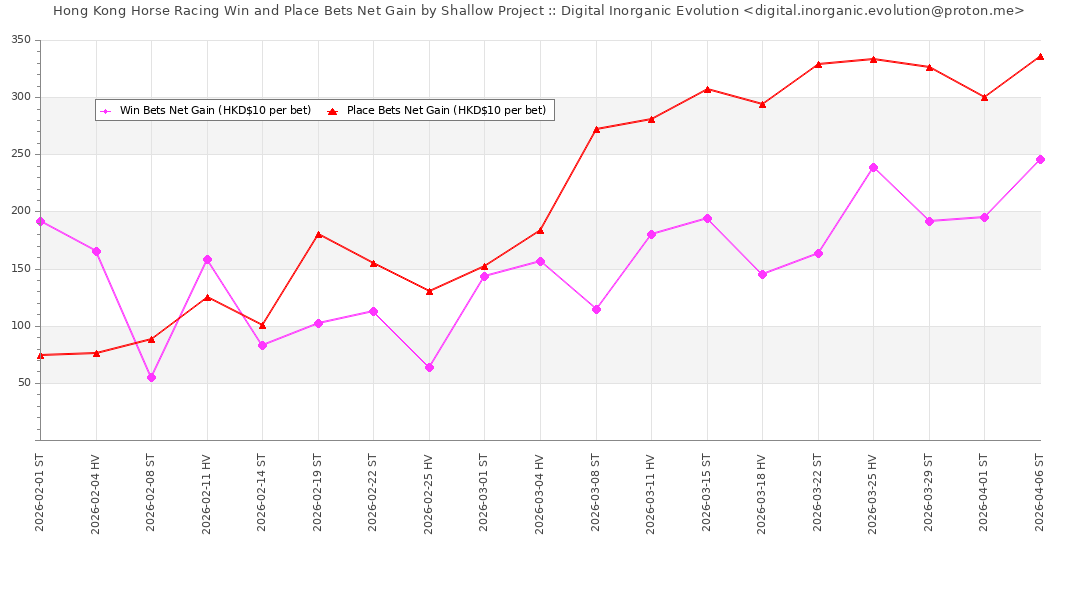
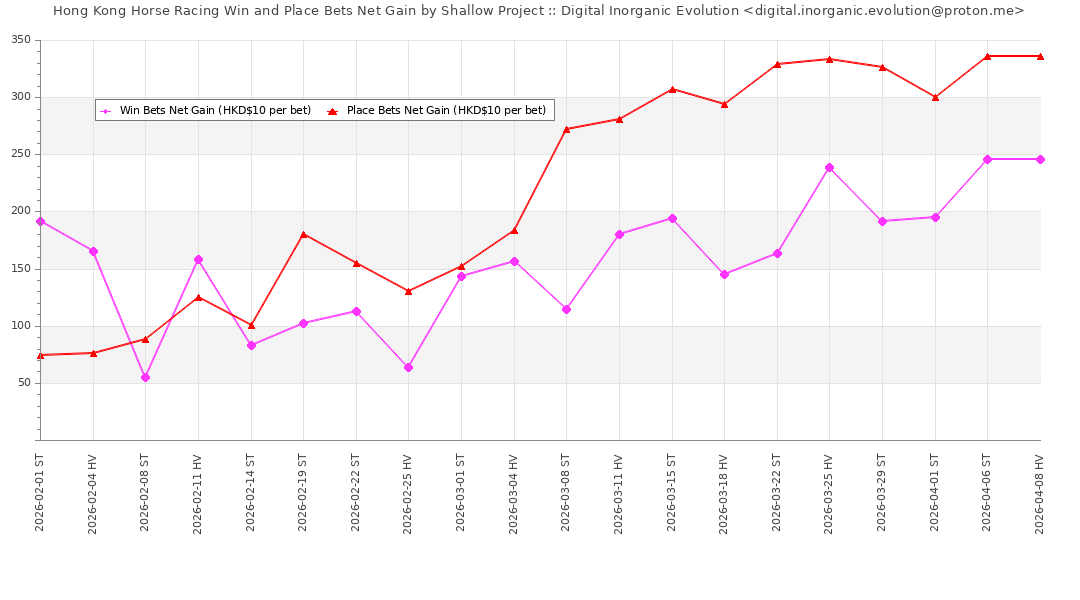
2026/04/08 Predictions

diff --git a/index.html b/index.html
@@ -182,6 +182,69 @@ The survival comparison assumes an energy consumption per hunting of HKD $10 eac
 </tr>
 </thead>
 <tbody>
+<tr><td>2026-04-08</td><td>1</td><td> /  / </td><td></td>
+<td></td>
+<td></td>
+<td></td>
+<td  bgcolor=Beige >1</td>
+<td  bgcolor=Lavender >9</td>
+<td>0</td><td>0</td></tr>
+<tr><td>2026-04-08</td><td>2</td><td> /  / </td><td></td>
+<td></td>
+<td></td>
+<td></td>
+<td  bgcolor=Beige >12</td>
+<td  bgcolor=Lavender >12</td>
+<td>0</td><td>0</td></tr>
+<tr><td>2026-04-08</td><td>3</td><td> /  / </td><td></td>
+<td></td>
+<td></td>
+<td></td>
+<td  bgcolor=Beige >8</td>
+<td  bgcolor=Lavender >8</td>
+<td>0</td><td>0</td></tr>
+<tr><td>2026-04-08</td><td>4</td><td> /  / </td><td></td>
+<td></td>
+<td></td>
+<td></td>
+<td  bgcolor=Beige >7</td>
+<td  bgcolor=Lavender >7</td>
+<td>0</td><td>0</td></tr>
+<tr><td>2026-04-08</td><td>5</td><td> /  / </td><td></td>
+<td></td>
+<td></td>
+<td></td>
+<td  bgcolor=Beige >2</td>
+<td  bgcolor=Lavender >2</td>
+<td>0</td><td>0</td></tr>
+<tr><td>2026-04-08</td><td>6</td><td> /  / </td><td></td>
+<td></td>
+<td></td>
+<td></td>
+<td  bgcolor=Beige >1</td>
+<td  bgcolor=Lavender >1</td>
+<td>0</td><td>0</td></tr>
+<tr><td>2026-04-08</td><td>7</td><td> /  / </td><td></td>
+<td></td>
+<td></td>
+<td></td>
+<td  bgcolor=Beige >2</td>
+<td  bgcolor=Lavender >2</td>
+<td>0</td><td>0</td></tr>
+<tr><td>2026-04-08</td><td>8</td><td> /  / </td><td></td>
+<td></td>
+<td></td>
+<td></td>
+<td  bgcolor=Beige >4</td>
+<td  bgcolor=Lavender >1</td>
+<td>0</td><td>0</td></tr>
+<tr><td>2026-04-08</td><td>9</td><td> /  / </td><td></td>
+<td></td>
+<td></td>
+<td></td>
+<td  bgcolor=Beige >4</td>
+<td  bgcolor=Lavender >1</td>
+<td>0</td><td>0</td></tr>
 <tr><td>2026-04-06</td><td>1</td><td>12 / 1 / 9</td><td>231.50</td>
 <td>33.00</td>
 <td>10.10</td>
@@ -1524,7 +1587,7 @@ The survival comparison assumes an energy consumption per hunting of HKD $10 eac
 <p>
 <a href="https://github.com/Digital-Inorganic-Evolution/Digital-Inorganic-Evolution.github.io/commits/main/" target="_blank">Check Commits on GitHub</a>
 <p>
-<h4>Generated at HKT 2026-04-06 20:55:14</h4>
+<h4>Generated at HKT 2026-04-08 18:32:55</h4>
 	
 <script src="https://code.jquery.com/jquery-3.7.1.min.js"></script>
 <script type="text/javascript" src="https://cdn.datatables.net/2.3.7/js/dataTables.min.js"></script>  
